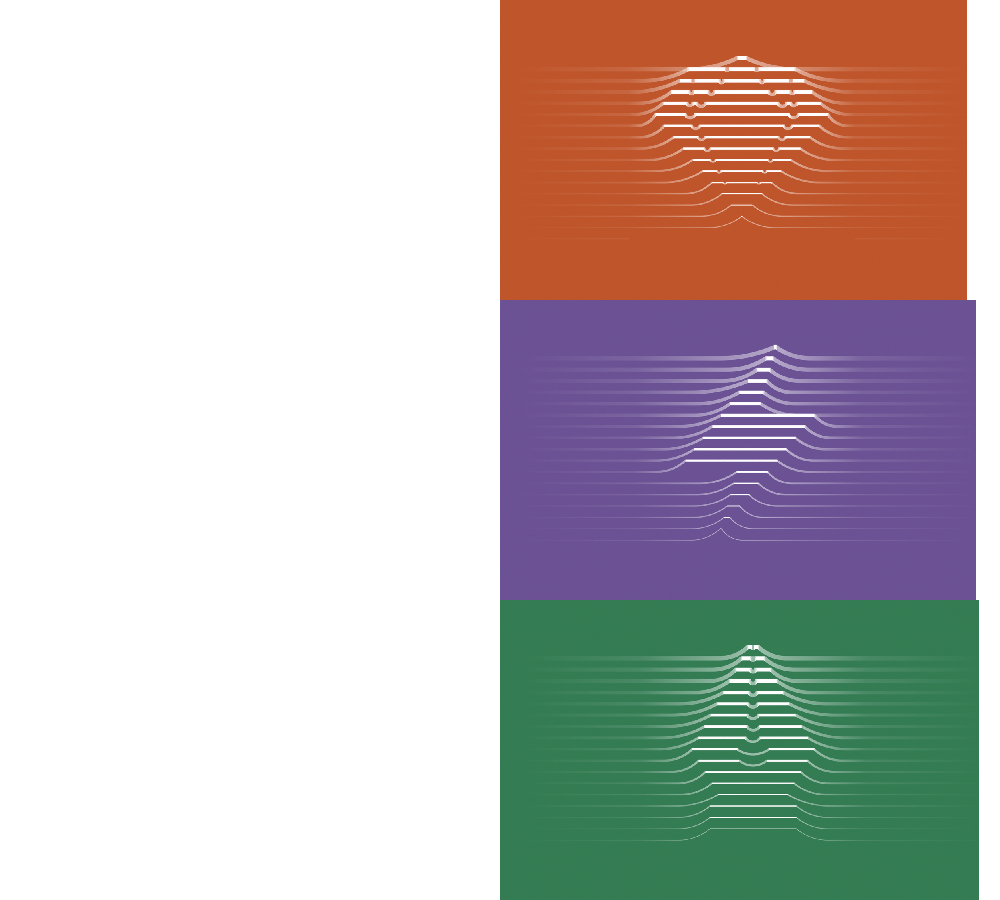
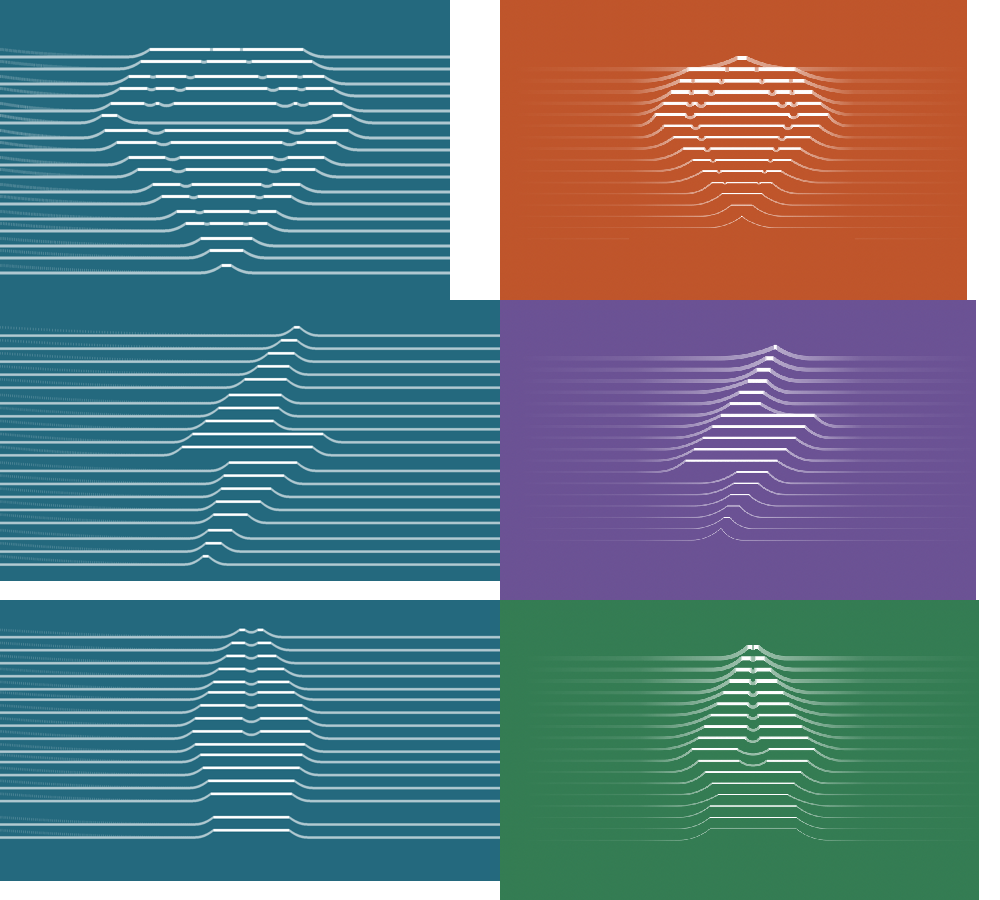
Bezier curves working

diff --git a/main.py b/main.py
@@ -49,6 +49,19 @@ def find_max_min_y(image):
                     max_y = y
     return min_y, max_y
 
+def draw_quadratic_curve(image, start_point, end_point, control_point):
+    for t in range(101):  # Iterate over t from 0 to 1 in steps of 0.01
+        t /= 100
+        x = (1-t)**2 * start_point[0] + 2*(1-t)*t * control_point[0] + t**2 * end_point[0]
+        y = (1-t)**2 * start_point[1] + 2*(1-t)*t * control_point[1] + t**2 * end_point[1]
+
+        x, y = int(x), int(y)  # Converting to integer for pixel coordinates
+        if y < image.size[1]:
+            for y_offset in range(10): # TODO: Make this a variable - y_segment_width
+                new_y = y + y_offset
+                if new_y < image.size[1] and x < image.size[0] and x >= 0 and image.getpixel((x, new_y)) != (255, 255, 255, 255):
+                    image.putpixel((x, new_y), (255, 255, 255, 123))
+
 def mask_image(base_image, overlay_pattern, line_spacing):
     # Ensure both images have the same size
     overlay_pattern = overlay_pattern.resize(base_image.size)
@@ -117,15 +130,22 @@ def mask_image(base_image, overlay_pattern, line_spacing):
 
                 slope = (curve_y_end - curve_y_start) / (curve_x_end - curve_x_start)
 
-                for x in range(i[0], curve_x_end):
-                    # Draw solid gray pixels
-                    extra_y_offset = int((x - curve_x_start) * slope)
-                    if i == gray_ranges[0]:
-                        extra_y_offset = scaled_displacement
-                    for y_offset in range(y_segment_width):
-                        new_y = y + y_offset + extra_y_offset
-                        if new_y < base_image.size[1]  and new_image.getpixel((x, new_y)) != (255, 255, 255, 255):
-                            new_image.putpixel((x,new_y), (255, 255, 255, 123))
+
+                if i == gray_ranges[0]:
+                    for x in range(i[0], curve_x_end):
+                        # Draw solid gray pixels
+                        # extra_y_offset = int((x - curve_x_start) * slope)
+                        if i == gray_ranges[0]:
+                            extra_y_offset = scaled_displacement
+                        for y_offset in range(y_segment_width):
+                            new_y = y + y_offset + extra_y_offset
+                            if new_y < base_image.size[1]  and new_image.getpixel((x, new_y)) != (255, 255, 255, 255):
+                                new_image.putpixel((x,new_y), (255, 255, 255, 123))
+
+                control_x = (curve_x_start + curve_x_end) // 2
+                control_y = min(curve_y_start, curve_y_end) + (abs(curve_y_start - curve_y_end))
+
+                draw_quadratic_curve(new_image, (curve_x_start, curve_y_start), (curve_x_end, curve_y_end), (control_x, control_y))
                 
                 
                 if need_flat:
@@ -143,23 +163,40 @@ def mask_image(base_image, overlay_pattern, line_spacing):
                 if i == gray_ranges[-1]:
                     slope == 0
                 # Draw quadratic curve
-                for x in range(curve_x_start, curve_x_end):
-                    extra_y_offset = int((x - curve_x_start) * slope)
-                    if i == gray_ranges[-1]:
-                        extra_y_offset = 0
-                    for y_offset in range(y_segment_width):
-                        new_y = y + y_offset + extra_y_offset + scaled_displacement
-                        if new_y < base_image.size[1] and new_image.getpixel((x, new_y)) != (255, 255, 255, 255):
-                            new_image.putpixel((x, new_y), (255, 255, 255, 123))
+                # for x in range(curve_x_start, curve_x_end):
+                #     extra_y_offset = int((x - curve_x_start) * slope)
+                #     if i == gray_ranges[-1]:
+                #         extra_y_offset = 0
+                #     for y_offset in range(y_segment_width):
+                #         new_y = y + y_offset + extra_y_offset + scaled_displacement
+                #         if new_y < base_image.size[1] and new_image.getpixel((x, new_y)) != (255, 255, 255, 255):
+                #             new_image.putpixel((x, new_y), (255, 255, 255, 123))
+                # Define control point for the curve. Modify as needed.
+                if i == gray_ranges[-1]:
+                    for x in range(curve_x_start, curve_x_end):
+                        for y_offset in range(y_segment_width):
+                            new_y = y + y_offset + scaled_displacement
+                            if new_y < base_image.size[1] and new_image.getpixel((x, new_y)) != (255, 255, 255, 255):
+                                new_image.putpixel((x, new_y), (255, 255, 255, 123))
+                else:
+                    control_x = (curve_x_start + curve_x_end) // 2
+                    control_y = min(curve_y_start, curve_y_end) + (abs(curve_y_start - curve_y_end))
+
+                    draw_quadratic_curve(new_image, (curve_x_start, curve_y_start), (curve_x_end, curve_y_end), (control_x, control_y))
 
     return new_image
 
 
-def generate_design(input_path, output_path, line_spacing, line_width, background_color=(255, 0, 255, 255)):
+def generate_design(input_path, output_path, line_spacing, line_width, background_color=(255, 0, 0)):
     # Load the original image
     original_image = Image.open(input_path)
 
     # Add the background color to the original image
+    # original_image = original_image.convert('RGBA') 
+
+    
+
+    # original_image = background_image
     # original_image = Image.alpha_composite(Image.new('RGBA', original_image.size, background_color), original_image)
     
     min_y, max_y = find_max_min_y(original_image)
@@ -171,9 +208,17 @@ def generate_design(input_path, output_path, line_spacing, line_width, backgroun
 
     # Example usage:
     forward_search_range = 20  # Horizontal distance to search forward
-    
+
+    background_image = Image.new('RGBA', original_image.size, (36,105,126))
+
+    # Paste the original image onto the background image
+    # Since the original image is 'RGBA', the alpha channel will be used to blend it onto the background
+    background_image.paste(final_image, (0, 0), final_image)
+
+    # background_image.save("./images/results/background_image.png")
+
     # Save the styled image
-    final_image.save(output_path)
+    background_image.save(output_path)
 
 # TODO: Automatically determine based off of number of lines desired and image size
     
